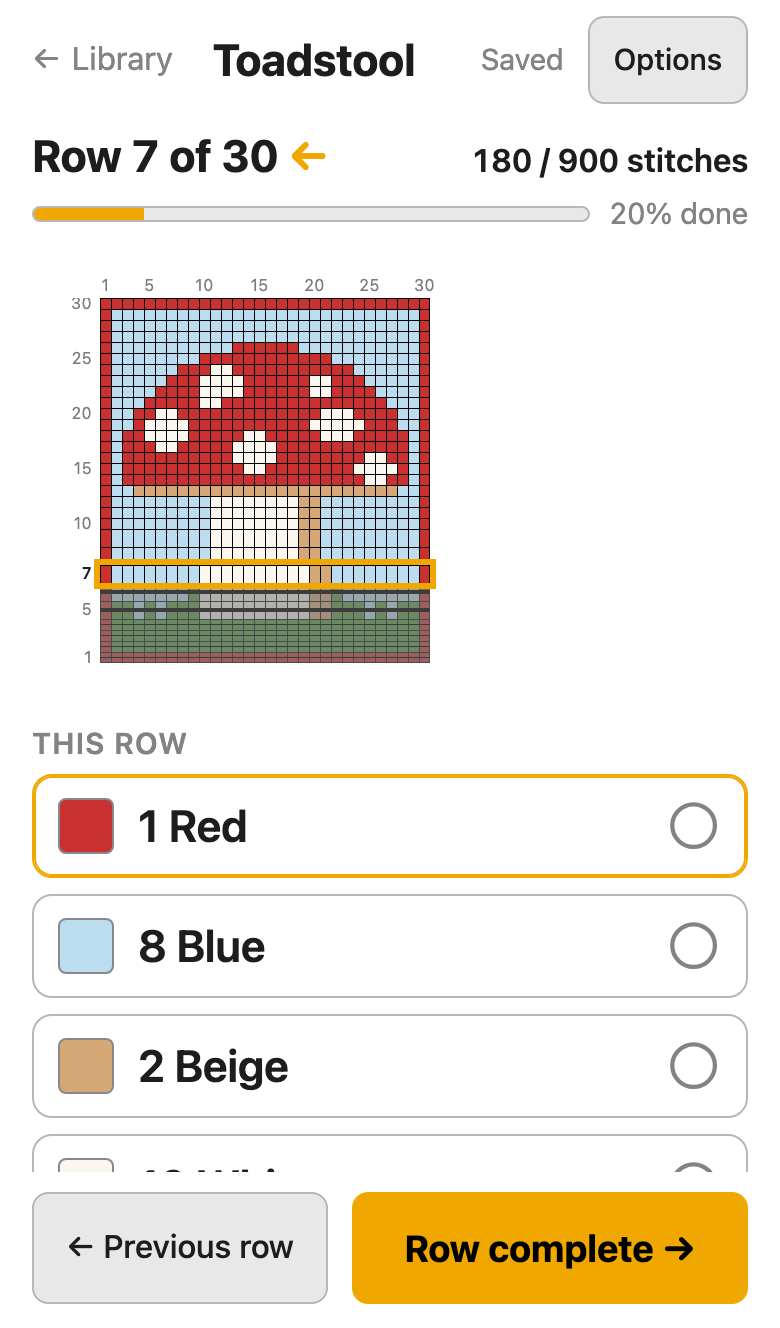
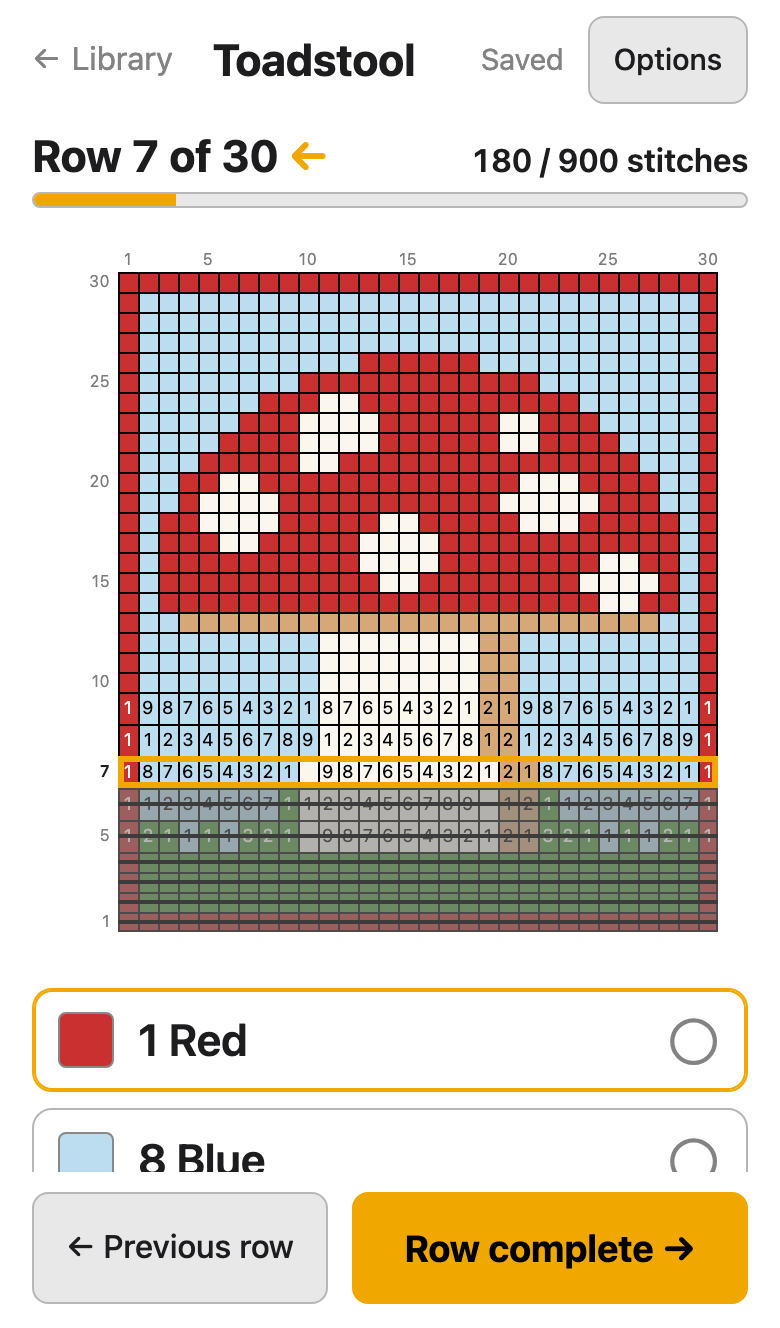
Docs: the phone Work layout in the guide, area note and rules
The guide says where "This row" is on a phone; its Work screenshots are
regenerated (npm run docs:media). The area note records the change and
what it was measured on, and rules.md says that anything turning a point
into a stitch must take off the chart's inset.

diff --git a/docs/guide/work.md b/docs/guide/work.md
@@ -15,9 +15,11 @@ you [choose another craft](#choose-your-craft).
 
 - **Row 7 of 30 ←** is the row you're on, and the arrow is the way you work it: ← right
   to left, → left to right. Beside it, how many stitches you've done out of the whole
-  pattern, and a bar with the percentage.
+  pattern, and a bar with the percentage (on a phone, the bar alone).
 - **This row** lists the row's colours in the order you work them: "1 Red", then "8 Blue",
-  and so on. The colour you're on is outlined.
+  and so on. The colour you're on is outlined. On a phone it's right under the chart,
+  without the heading, and the chart takes all the room it can use: the list gets the
+  rest, and scrolls when the row has more colours than fit.
 - **Next:** shows the row after this one, so you can see what's coming.
 - The chart shows the whole pattern with the current row outlined and the rows you've
   finished greyed out. Each stitch carries a number: see
